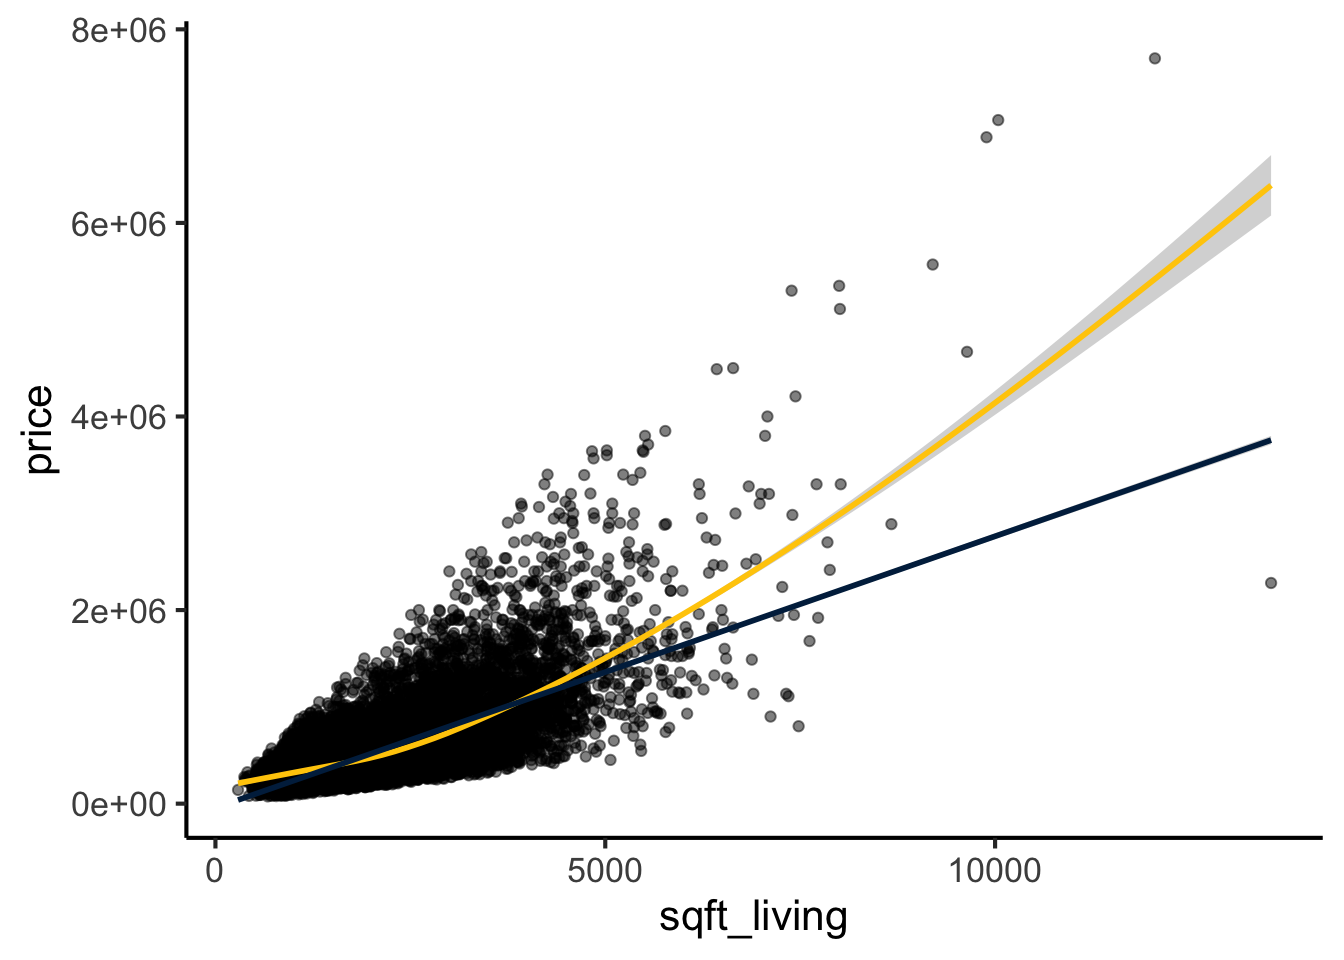
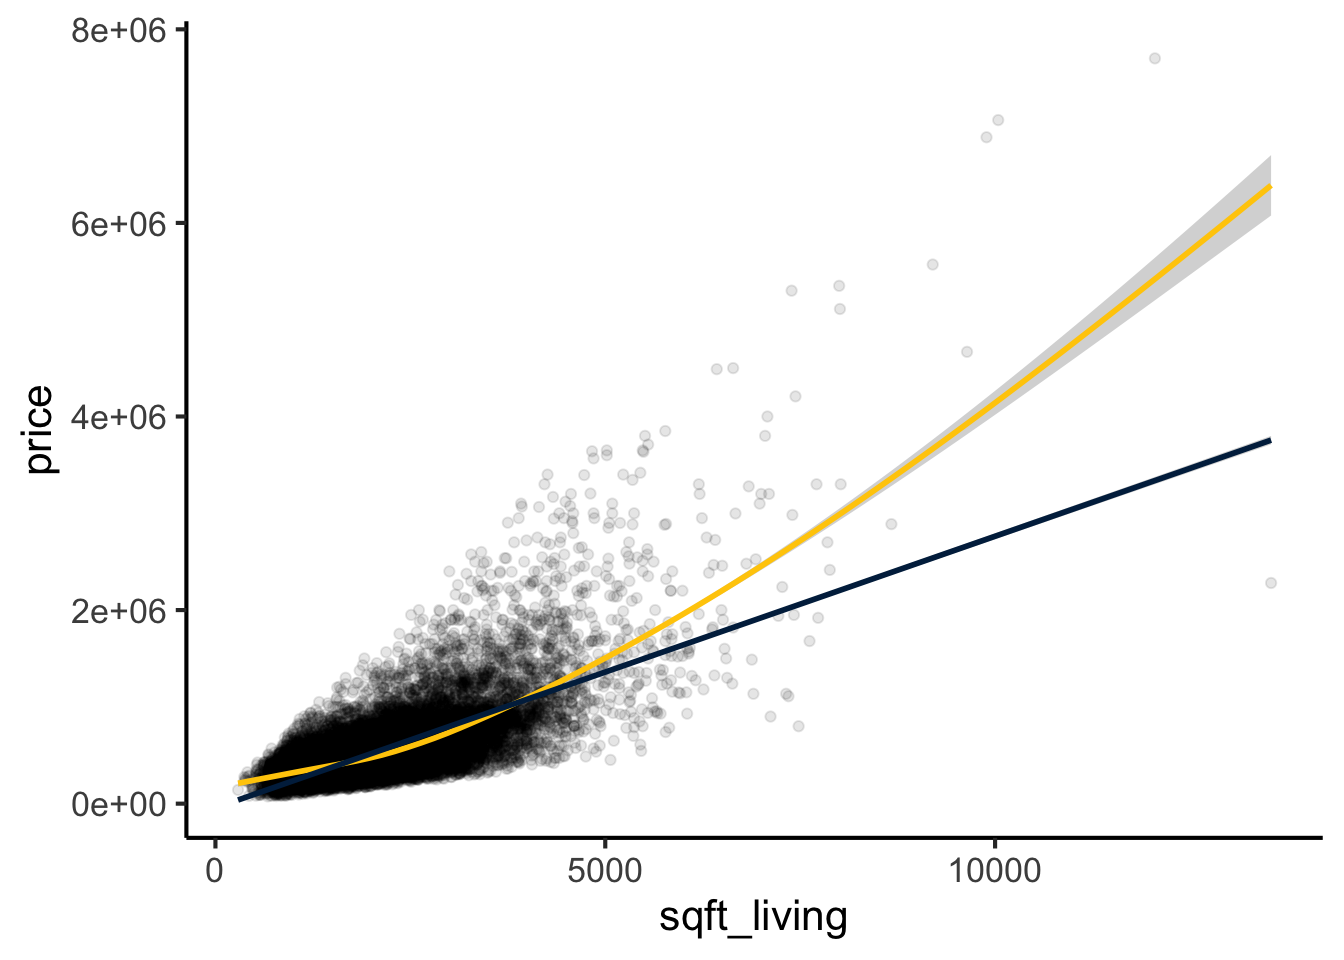
Added model diagnostic plots

diff --git a/Experimental Policies/correlations-linear-models.html b/Experimental Policies/correlations-linear-models.html
@@ -6,7 +6,7 @@
 
 <meta name="viewport" content="width=device-width, initial-scale=1.0, user-scalable=yes">
 
-<meta name="author" content="Authors">
+<meta name="author" content="Dave Bridges">
 <meta name="dcterms.date" content="2025-02-10">
 
 <title>Correlations and Linear Models</title>
@@ -135,7 +135,7 @@ code span.wa { color: #60a0b0; font-weight: bold; font-style: italic; } /* Warni
     <div>
     <div class="quarto-title-meta-heading">Author</div>
     <div class="quarto-title-meta-contents">
-             <p>Authors </p>
+             <p>Dave Bridges </p>
           </div>
   </div>
     
@@ -168,7 +168,7 @@ code span.wa { color: #60a0b0; font-weight: bold; font-style: italic; } /* Warni
 <div class="sourceCode cell-code" id="cb2"><pre class="sourceCode r code-with-copy"><code class="sourceCode r"><span id="cb2-1"><a href="#cb2-1" aria-hidden="true" tabindex="-1"></a><span class="fu">library</span>(ggplot2)</span>
 <span id="cb2-2"><a href="#cb2-2" aria-hidden="true" tabindex="-1"></a><span class="fu">ggplot</span>(house_prices,</span>
 <span id="cb2-3"><a href="#cb2-3" aria-hidden="true" tabindex="-1"></a>       <span class="fu">aes</span>(<span class="at">y=</span>price,<span class="at">x=</span>sqft_living)) <span class="sc">+</span></span>
-<span id="cb2-4"><a href="#cb2-4" aria-hidden="true" tabindex="-1"></a>  <span class="fu">geom_point</span>(<span class="at">alpha=</span><span class="fl">0.5</span>) <span class="sc">+</span> <span class="co">#transparency of the points</span></span>
+<span id="cb2-4"><a href="#cb2-4" aria-hidden="true" tabindex="-1"></a>  <span class="fu">geom_point</span>(<span class="at">alpha=</span><span class="fl">0.1</span>) <span class="sc">+</span> <span class="co">#transparency of the points</span></span>
 <span id="cb2-5"><a href="#cb2-5" aria-hidden="true" tabindex="-1"></a>  <span class="fu">geom_smooth</span>(<span class="at">method=</span><span class="st">"loess"</span>,<span class="at">color=</span>color_scheme[<span class="dv">2</span>]) <span class="sc">+</span> <span class="co">#smoothed line</span></span>
 <span id="cb2-6"><a href="#cb2-6" aria-hidden="true" tabindex="-1"></a>  <span class="fu">geom_smooth</span>(<span class="at">method=</span><span class="st">"lm"</span>,<span class="at">color=</span>color_scheme[<span class="dv">1</span>]) <span class="sc">+</span> <span class="co">#linear relationship</span></span>
 <span id="cb2-7"><a href="#cb2-7" aria-hidden="true" tabindex="-1"></a>  <span class="fu">theme_classic</span>(<span class="at">base_size=</span><span class="dv">16</span>) <span class="co">#classic theme, and increasing the font size</span></span></code><button title="Copy to Clipboard" class="code-copy-button"><i class="bi"></i></button></pre></div>
@@ -176,7 +176,7 @@ code span.wa { color: #60a0b0; font-weight: bold; font-style: italic; } /* Warni
 <p><img src="correlations-linear-models_files/figure-html/price-sqft-living-1.png" class="img-fluid" width="672"></p>
 </div>
 </div>
-<p>This appears to be an approximately linear relationship (blue line), though th smooth best fit curve (maiz line) suggests it might be nonlinear below about 3000 square feet. For now lets focus on describing the linear relationship, we will come back to a non-linear relationship in <span class="citation" data-cites="non_linear">@non_linear</span>.</p>
+<p>This appears to be an approximately linear relationship (blue line), though th smooth best fit curve (maize line) suggests it might be nonlinear below about 3000 square feet. For now lets focus on describing the linear relationship, we will come back to a non-linear relationship in <a href="#non_linear">Non-Linear Relationships</a>.</p>
 </section>
 <section id="describing-the-linear-relationship" class="level2">
 <h2 class="anchored" data-anchor-id="describing-the-linear-relationship">Describing the Linear Relationship</h2>
@@ -284,23 +284,46 @@ code span.wa { color: #60a0b0; font-weight: bold; font-style: italic; } /* Warni
 <li><strong>Homoscedasticity</strong>: The residuals are assumed to have constant variance across all levels of the predictor variable. This is also known as homogeneity of variance.</li>
 <li><strong>Normality</strong>: The residuals are assumed to be normally distributed. While perfect normality is not required, it suggests that the model is doing a good job of predicting the response.</li>
 </ul>
+<p>These can be generated in base r or using the <code>lindia</code> package. I’ll show code for both, but we will focus on the four main diagnostic plots in base R.</p>
 <div class="cell">
 <div class="sourceCode cell-code" id="cb5"><pre class="sourceCode r code-with-copy"><code class="sourceCode r"><span id="cb5-1"><a href="#cb5-1" aria-hidden="true" tabindex="-1"></a><span class="fu">par</span>(<span class="at">mfrow =</span> <span class="fu">c</span>(<span class="dv">2</span>, <span class="dv">2</span>))</span>
 <span id="cb5-2"><a href="#cb5-2" aria-hidden="true" tabindex="-1"></a><span class="fu">plot</span>(lm<span class="fl">.1</span>)</span></code><button title="Copy to Clipboard" class="code-copy-button"><i class="bi"></i></button></pre></div>
 <div class="cell-output-display">
 <p><img src="correlations-linear-models_files/figure-html/lm-assumptions-1.png" class="img-fluid" width="672"></p>
 </div>
+<div class="sourceCode cell-code" id="cb6"><pre class="sourceCode r code-with-copy"><code class="sourceCode r"><span id="cb6-1"><a href="#cb6-1" aria-hidden="true" tabindex="-1"></a><span class="co">#alternatively can use diagnostics in the lindia package</span></span>
+<span id="cb6-2"><a href="#cb6-2" aria-hidden="true" tabindex="-1"></a><span class="co">#library(lindia)</span></span>
+<span id="cb6-3"><a href="#cb6-3" aria-hidden="true" tabindex="-1"></a><span class="co">#gg_diagnose(lm.1)</span></span></code><button title="Copy to Clipboard" class="code-copy-button"><i class="bi"></i></button></pre></div>
 </div>
+<section id="interpreting-these-model-plots" class="level4">
+<h4 class="anchored" data-anchor-id="interpreting-these-model-plots">Interpreting these Model Plots</h4>
+<ul>
+<li><strong>Residuals vs.&nbsp;Fitted Plot</strong> This plot helps detect non-linearity, unequal error variances, and outliers. <em>Linearity</em>: The residuals should “bounce randomly” around the horizontal line at y=0. If you see a pattern, it suggests non-linearity. <em>Equal Variance</em>: The vertical spread of residuals should be similar across the plot. A “horizontal band” indicates equal error variances. <em>Outliers</em>: Look for any points that stand out from the overall pattern.</li>
+<li><strong>Normal Q-Q Plot</strong> This plot checks if residuals are normally distributed. <em>Normal Distribution</em>: Points should fall approximately along the diagonal line. Significant deviations suggest non-normality. <em>Tails</em>: Pay attention to deviations at the ends of the line, which indicate issues with the tails of the distribution.</li>
+<li><strong>Scale-Location Plot</strong> This plot checks the assumption of equal variance (homoscedasticity). <em>Equal Variance</em>: Look for a horizontal line with randomly spread points. Any patterns or funneling suggest heteroscedasticity.</li>
+<li><strong>Residuals vs.&nbsp;Leverage Plot</strong> This plot helps identify influential observations. <em>Influential Points</em>: Look for any points falling outside Cook’s distance (usually marked by dashed lines). These are considered influential observations. <em>Leverage</em>: Points far to the right have high leverage, meaning they have a strong influence on the model coefficients.</li>
+</ul>
+</section>
+<section id="what-to-do-if-assumptions-are-not-met" class="level4">
+<h4 class="anchored" data-anchor-id="what-to-do-if-assumptions-are-not-met">What to Do if Assumptions are Not Met</h4>
+<ul>
+<li><strong>Linearity</strong>. Apply a non-linear transformation to the predictor or response variable (<em>e.g.</em>, log, square root, or polynomial terms). Add interaction terms or higher-order terms (<em>e.g.</em>, quadratic) to the model to account for non-linear relationships. Alternatively use a generalized additive model (GAM) or other non-linear modeling techniques.</li>
+<li><strong>Independence</strong> Check for omitted variables that might explain the correlation and include them in the model. For time-series data, use models like ARIMA or include lagged variables to account for autocorrelation. If independence is violated due to clustering or grouping, consider using mixed-effects models or hierarchical models.</li>
+<li><strong>Homoscedasticity (Constant Variance)</strong> Apply a log transformation or other variance-stabilizing transformations to the response variable. Use weighted least squares (WLS) regression, which assigns weights inversely proportional to the variance of residuals. Consider robust regression methods, such as those implemented in the robustbase package (lmrob).</li>
+<li><strong>Normality of Residuals</strong> Apply transformations (<em>e.g.</em>, log, square root) to the response variable if it is skewed. Use non-parametric regression methods that do not assume normality, such as quantile regression. If normality is violated due to outliers, investigate and either remove or down-weight their influence using robust regression techniques like least trimmed squares or MM-estimators.</li>
+</ul>
+</section>
 </section>
 </section>
 <section id="non_linear" class="level2">
 <h2 class="anchored" data-anchor-id="non_linear">Evaluating Non-Linear Relationships</h2>
-<p>Note perplexity.ai was used to help in generating this script</p>
+<p>TODO</p>
+<p>Note <a href="perplexity.ai">perplexity.ai</a> was used to help in generating this script</p>
 </section>
 <section id="session-information" class="level2">
 <h2 class="anchored" data-anchor-id="session-information">Session Information</h2>
 <div class="cell">
-<div class="sourceCode cell-code" id="cb6"><pre class="sourceCode r code-with-copy"><code class="sourceCode r"><span id="cb6-1"><a href="#cb6-1" aria-hidden="true" tabindex="-1"></a><span class="fu">sessionInfo</span>()</span></code><button title="Copy to Clipboard" class="code-copy-button"><i class="bi"></i></button></pre></div>
+<div class="sourceCode cell-code" id="cb7"><pre class="sourceCode r code-with-copy"><code class="sourceCode r"><span id="cb7-1"><a href="#cb7-1" aria-hidden="true" tabindex="-1"></a><span class="fu">sessionInfo</span>()</span></code><button title="Copy to Clipboard" class="code-copy-button"><i class="bi"></i></button></pre></div>
 <div class="cell-output cell-output-stdout">
 <pre><code>R version 4.4.2 (2024-10-31)
 Platform: x86_64-apple-darwin20

diff --git a/Experimental Policies/correlations-linear-models.md b/Experimental Policies/correlations-linear-models.md
@@ -1,6 +1,6 @@
 ---
 title: "Correlations and Linear Models"
-author: "Authors"
+author: "Dave Bridges"
 date: "2025-02-10"
 editor: source
 format: 
@@ -48,7 +48,7 @@ The best first thing to do is to make a plot looking at the two variables.  Here
 library(ggplot2)
 ggplot(house_prices,
        aes(y=price,x=sqft_living)) +
-  geom_point(alpha=0.5) + #transparency of the points
+  geom_point(alpha=0.1) + #transparency of the points
   geom_smooth(method="loess",color=color_scheme[2]) + #smoothed line
   geom_smooth(method="lm",color=color_scheme[1]) + #linear relationship
   theme_classic(base_size=16) #classic theme, and increasing the font size
@@ -59,7 +59,7 @@ ggplot(house_prices,
 :::
 :::
 
-This appears to be an approximately linear relationship (blue line), though th smooth best fit curve (maiz line) suggests it might be nonlinear below about 3000 square feet.  For now lets focus on describing the linear relationship, we will come back to a non-linear relationship in @non_linear.
+This appears to be an approximately linear relationship (blue line), though th smooth best fit curve (maize line) suggests it might be nonlinear below about 3000 square feet.  For now lets focus on describing the linear relationship, we will come back to a non-linear relationship in [Non-Linear Relationships](#non_linear).
 
 ## Describing the Linear Relationship
 
@@ -114,6 +114,7 @@ For a linear model there are four assumptions
 * **Homoscedasticity**: The residuals are assumed to have constant variance across all levels of the predictor variable. This is also known as homogeneity of variance.
 * **Normality**: The residuals are assumed to be normally distributed. While perfect normality is not required, it suggests that the model is doing a good job of predicting the response.
 
+These can be generated in base r or using the `lindia` package.  I'll show code for both, but we will focus on the four main diagnostic plots in base R.
 
 
 ::: {.cell}
@@ -126,12 +127,34 @@ plot(lm.1)
 ::: {.cell-output-display}
 ![](correlations-linear-models_files/figure-html/lm-assumptions-1.png){width=672}
 :::
+
+```{.r .cell-code}
+#alternatively can use diagnostics in the lindia package
+#library(lindia)
+#gg_diagnose(lm.1)
+```
 :::
 
 
+#### Interpreting these Model Plots
+
+* **Residuals vs. Fitted Plot** This plot helps detect non-linearity, unequal error variances, and outliers.  *Linearity*: The residuals should "bounce randomly" around the horizontal line at y=0. If you see a pattern, it suggests non-linearity.  *Equal Variance*: The vertical spread of residuals should be similar across the plot. A "horizontal band" indicates equal error variances. *Outliers*: Look for any points that stand out from the overall pattern.
+* **Normal Q-Q Plot** This plot checks if residuals are normally distributed. *Normal Distribution*: Points should fall approximately along the diagonal line. Significant deviations suggest non-normality. *Tails*: Pay attention to deviations at the ends of the line, which indicate issues with the tails of the distribution.
+* **Scale-Location Plot** This plot checks the assumption of equal variance (homoscedasticity). *Equal Variance*: Look for a horizontal line with randomly spread points. Any patterns or funneling suggest heteroscedasticity.
+* **Residuals vs. Leverage Plot** This plot helps identify influential observations. *Influential Points*: Look for any points falling outside Cook's distance (usually marked by dashed lines). These are considered influential observations. *Leverage*: Points far to the right have high leverage, meaning they have a strong influence on the model coefficients.
+
+#### What to Do if Assumptions are Not Met
+
+* **Linearity**.  Apply a non-linear transformation to the predictor or response variable (*e.g.*, log, square root, or polynomial terms).  Add interaction terms or higher-order terms (*e.g.*, quadratic) to the model to account for non-linear relationships.  Alternatively use a generalized additive model (GAM) or other non-linear modeling techniques.
+* **Independence**  Check for omitted variables that might explain the correlation and include them in the model.  For time-series data, use models like ARIMA or include lagged variables to account for autocorrelation.  If independence is violated due to clustering or grouping, consider using mixed-effects models or hierarchical models.
+* **Homoscedasticity (Constant Variance)**  Apply a log transformation or other variance-stabilizing transformations to the response variable.  Use weighted least squares (WLS) regression, which assigns weights inversely proportional to the variance of residuals.  Consider robust regression methods, such as those implemented in the robustbase package (lmrob).
+* **Normality of Residuals**  Apply transformations (*e.g.*, log, square root) to the response variable if it is skewed.  Use non-parametric regression methods that do not assume normality, such as quantile regression.  If normality is violated due to outliers, investigate and either remove or down-weight their influence using robust regression techniques like least trimmed squares or MM-estimators.
+
 ## Evaluating Non-Linear Relationships {#non_linear}
 
-Note perplexity.ai was used to help in generating this script
+TODO
+
+Note [perplexity.ai](perplexity.ai) was used to help in generating this script
 
 ## Session Information
 
